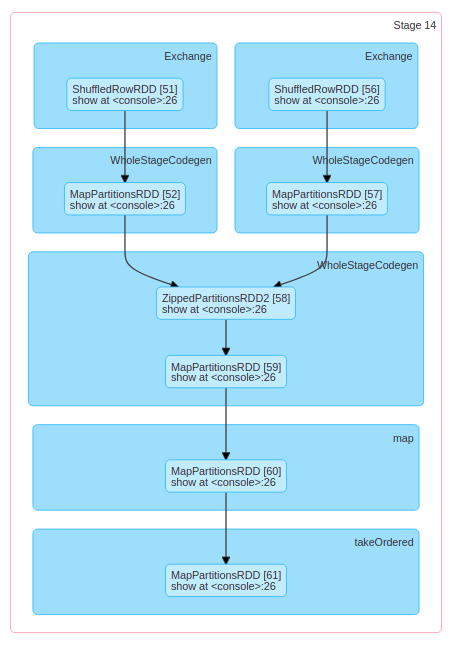
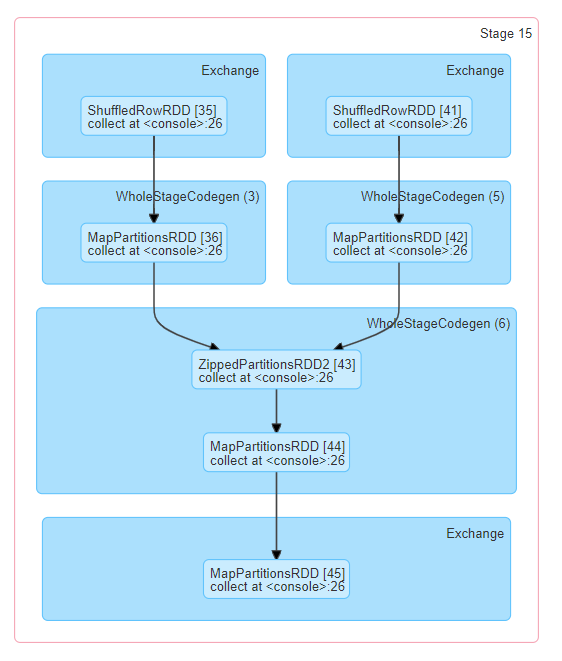
[SPARK-30041][SQL][WEBUI] Add Codegen Stage Id to Stage DAG visualization in Web UI
### What changes were proposed in this pull request?
SPARK-29894 provides information on the Codegen Stage Id in WEBUI for SQL Plan graphs. Similarly, this proposes to add Codegen Stage Id in the DAG visualization for Stage execution. DAGs for Stage execution are available in the WEBUI under the Jobs and Stages tabs.

### Why are the changes needed?
This is proposed as an aid for drill-down analysis of complex SQL statement execution, as it is not always easy to match parts of the SQL Plan graph with the corresponding Stage DAG execution graph. Adding Codegen Stage Id for WholeStageCodegen operations makes this task easier.

### Does this PR introduce any user-facing change?
Stage DAG visualization in the WEBUI will show codegen stage id for WholeStageCodegen operations, as in the example snippet from the WEBUI, Jobs tab  (the query used in the example is TPCDS 2.4 q14a):
![](https://issues.apache.org/jira/secure/attachment/12987461/Snippet_StagesDags_with_CodegenId%20_annotated.png)

### How was this patch tested?
Manually tested, see also example snippet.

Closes #26675 from LucaCanali/addCodegenStageIdtoStageGraph.

diff --git a/docs/web-ui.md b/docs/web-ui.md
@@ -73,7 +73,8 @@ This page displays the details of a specific job identified by its job ID.
 </p>
 
 * DAG visualization: Visual representation of the directed acyclic graph of this job where vertices represent the RDDs or DataFrames and the edges represent an operation to be applied on RDD.
-
+* An example of DAG visualization for `sc.parallelize(1 to 100).toDF.count()`
+ 
 <p style="text-align: center;">
   <img src="img/JobPageDetail2.png" title="DAG" alt="DAG" width="40%">
 </p>
@@ -124,6 +125,8 @@ The stage detail page begins with information like total time across all tasks, 
 </p>
 
 There is also a visual representation of the directed acyclic graph (DAG) of this stage, where vertices represent the RDDs or DataFrames and the edges represent an operation to be applied.
+Nodes are grouped by operation scope in the DAG visualization and labelled with the operation scope name (BatchScan, WholeStageCodegen, Exchange, etc).
+Notably, Whole Stage Code Generation operations are also annotated with the code generation id. For stages belonging to Spark DataFrame or SQL execution, this allows to cross-reference Stage execution details to the relevant details in the Web-UI SQL Tab page where SQL plan graphs and execution plans are reported.
 
 <p style="text-align: center;">
   <img src="img/AllStagesPageDetail5.png" title="Stage DAG" alt="Stage DAG" width="50%">
